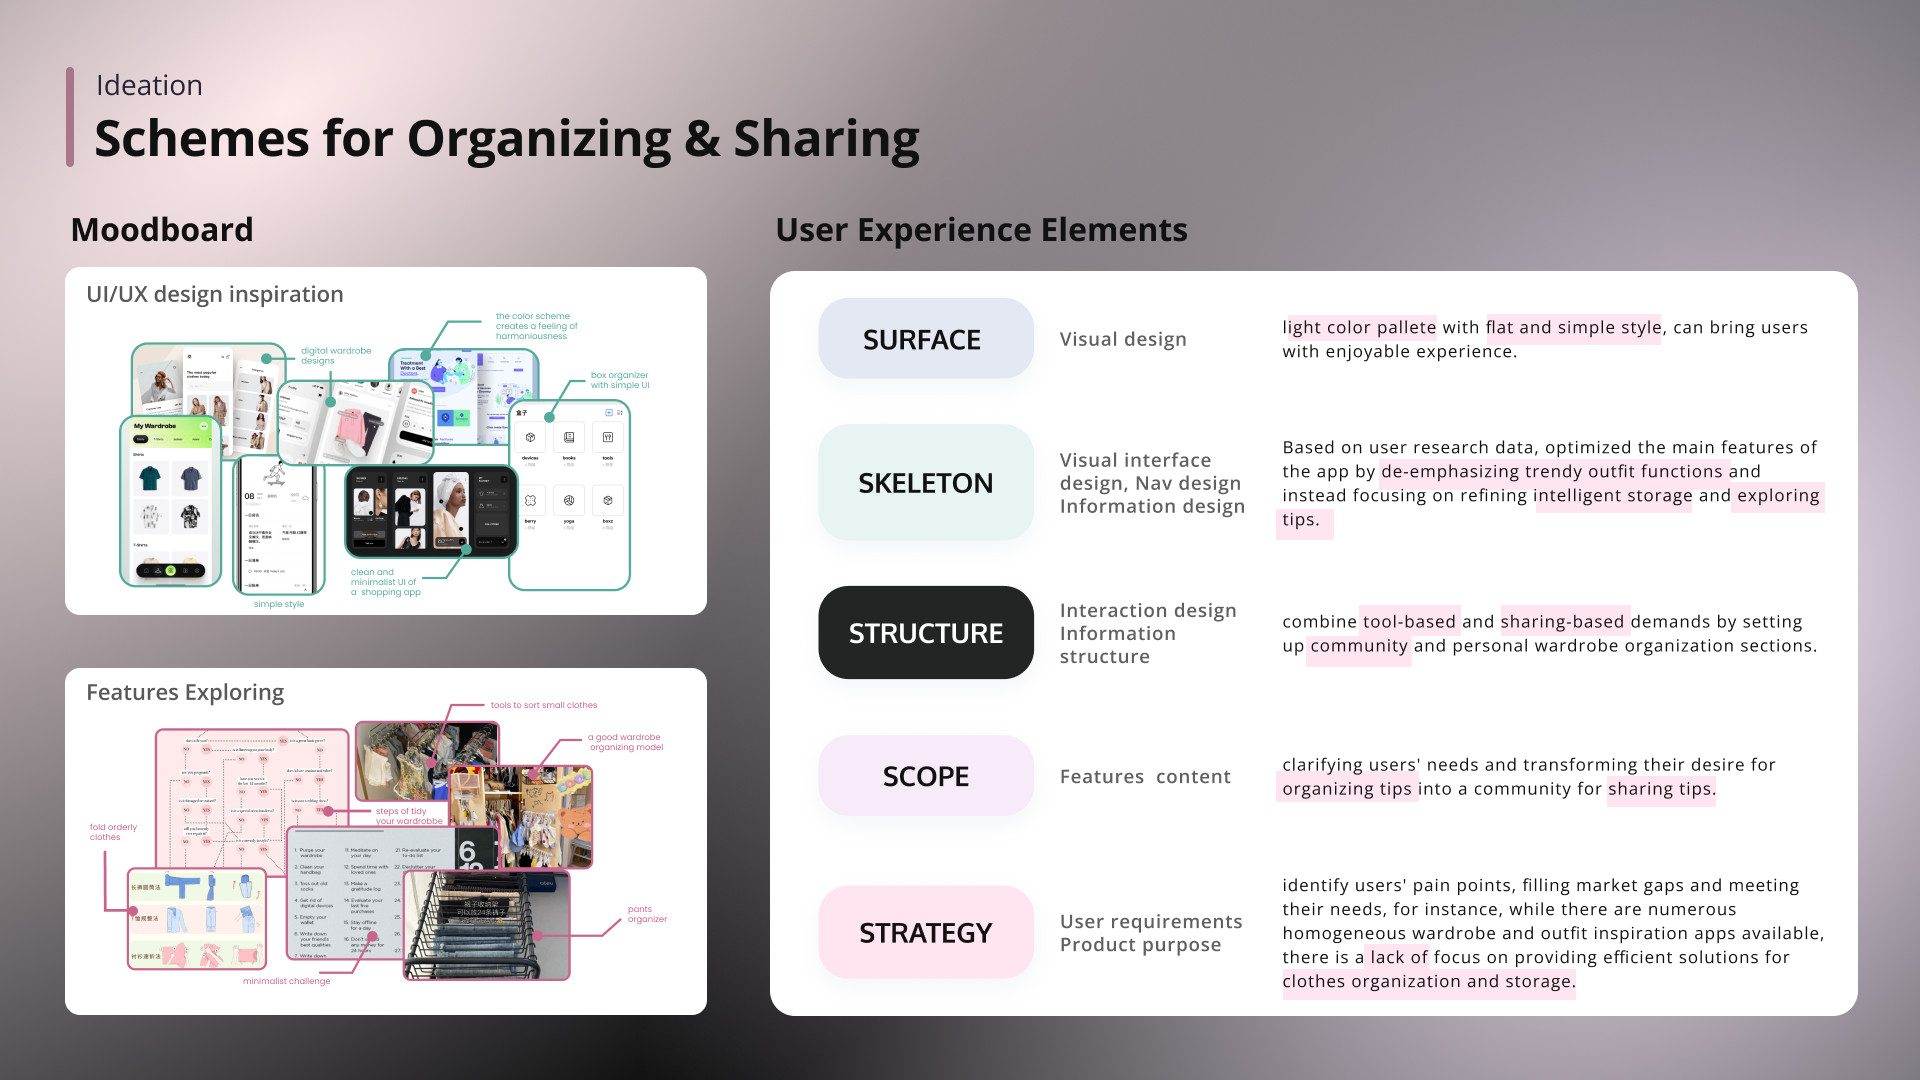
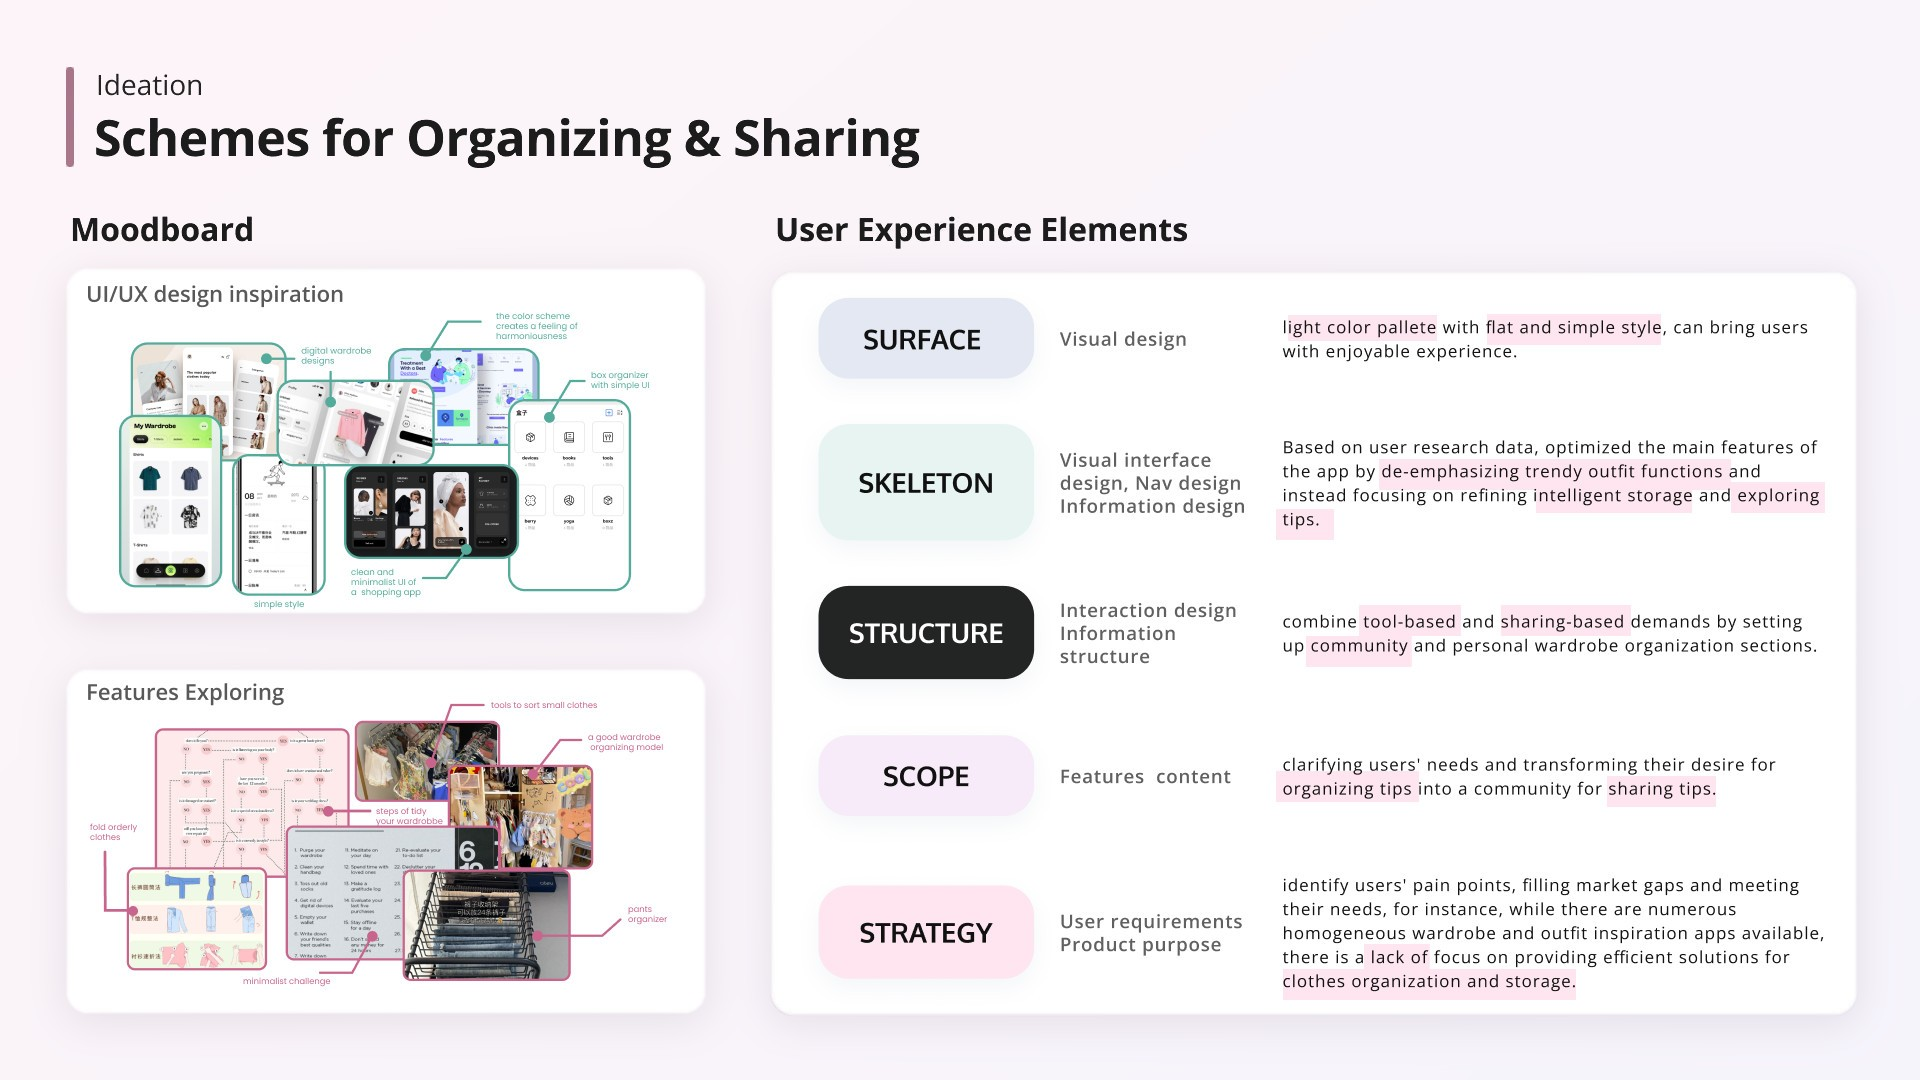
Wardrobe Genie slide on a light ground, hover on every case-study image and card
- slide-4 was a transparent PNG flattened onto black; rebuilt on a pale pink-to-lavender wash with the
  cards, title and accent bar kept and soft card shadows added.
- Case-study figures, point cards, the flow card and the hero lift and take the accent border on hover,
  like the project cards. Immersive figures zoom inside their frame; the Chapters strip gets top room for
  the lift. Reduced motion drops the movement.
- The side-tab design check ignores App.css: the flagged border is the flow arrowhead triangle.

diff --git a/src/App.css b/src/App.css
@@ -1180,6 +1180,45 @@ main h2 {
   color: var(--accent);
 }
 
+/* every case-study image and card answers the pointer the way the project cards do: a small lift, the accent
+   border and its glow */
+.case-hero,
+.case-figs img,
+.case-items > div,
+.case-flow {
+  transition: transform 0.45s cubic-bezier(0.2, 0.7, 0.2, 1), border-color 0.25s, box-shadow 0.35s;
+}
+
+.case-hero:hover,
+.case-figs figure:hover img,
+.case-items > div:hover,
+.case-flow:hover {
+  border-color: var(--accent);
+  box-shadow: 0 14px 34px -14px var(--accent-dim);
+}
+
+.case-figs figure:hover img,
+.case-items > div:hover {
+  transform: translateY(-4px);
+}
+
+.case-hero:hover {
+  box-shadow: 0 40px 90px -40px var(--accent-dim), 0 0 0 1px var(--accent);
+}
+
+@media (prefers-reduced-motion: reduce) {
+  .case-hero,
+  .case-figs img,
+  .case-items > div,
+  .case-flow {
+    transition: none;
+  }
+  .case-figs figure:hover img,
+  .case-items > div:hover {
+    transform: none;
+  }
+}
+
 /* --- layout: original (the old Wix site): centred group titles, accent subheads, three-up grids --- */
 
 .case-original {
@@ -1395,6 +1434,26 @@ main h2 {
   border-radius: 0;
 }
 
+/* the frame clips its image, so here the picture zooms inside it and the frame takes the glow */
+.case-immersive .case-figs figure {
+  transition: box-shadow 0.35s;
+}
+
+.case-immersive .case-figs figure:hover {
+  box-shadow: 0 0 0 1px var(--accent), 0 14px 34px -14px var(--accent-dim);
+}
+
+.case-immersive .case-figs figure:hover img {
+  transform: scale(1.04);
+  box-shadow: none;
+}
+
+@media (prefers-reduced-motion: reduce) {
+  .case-immersive .case-figs figure:hover img {
+    transform: none;
+  }
+}
+
 
 
 .case-immersive .case-figs figcaption {
@@ -1500,8 +1559,9 @@ main h2 {
 .case-chapters .case-figs-3 {
   display: flex;
   gap: clamp(14px, 1.6vw, 24px);
-  margin-top: 40px;
-  padding: 0 clamp(16px, 5vw, 72px) 18px;
+  /* the top padding leaves room for a hovered image to lift inside the scrolling strip */
+  margin-top: 32px;
+  padding: 8px clamp(16px, 5vw, 72px) 18px;
   overflow-x: auto;
   scroll-snap-type: x mandatory;
   scrollbar-width: thin;
